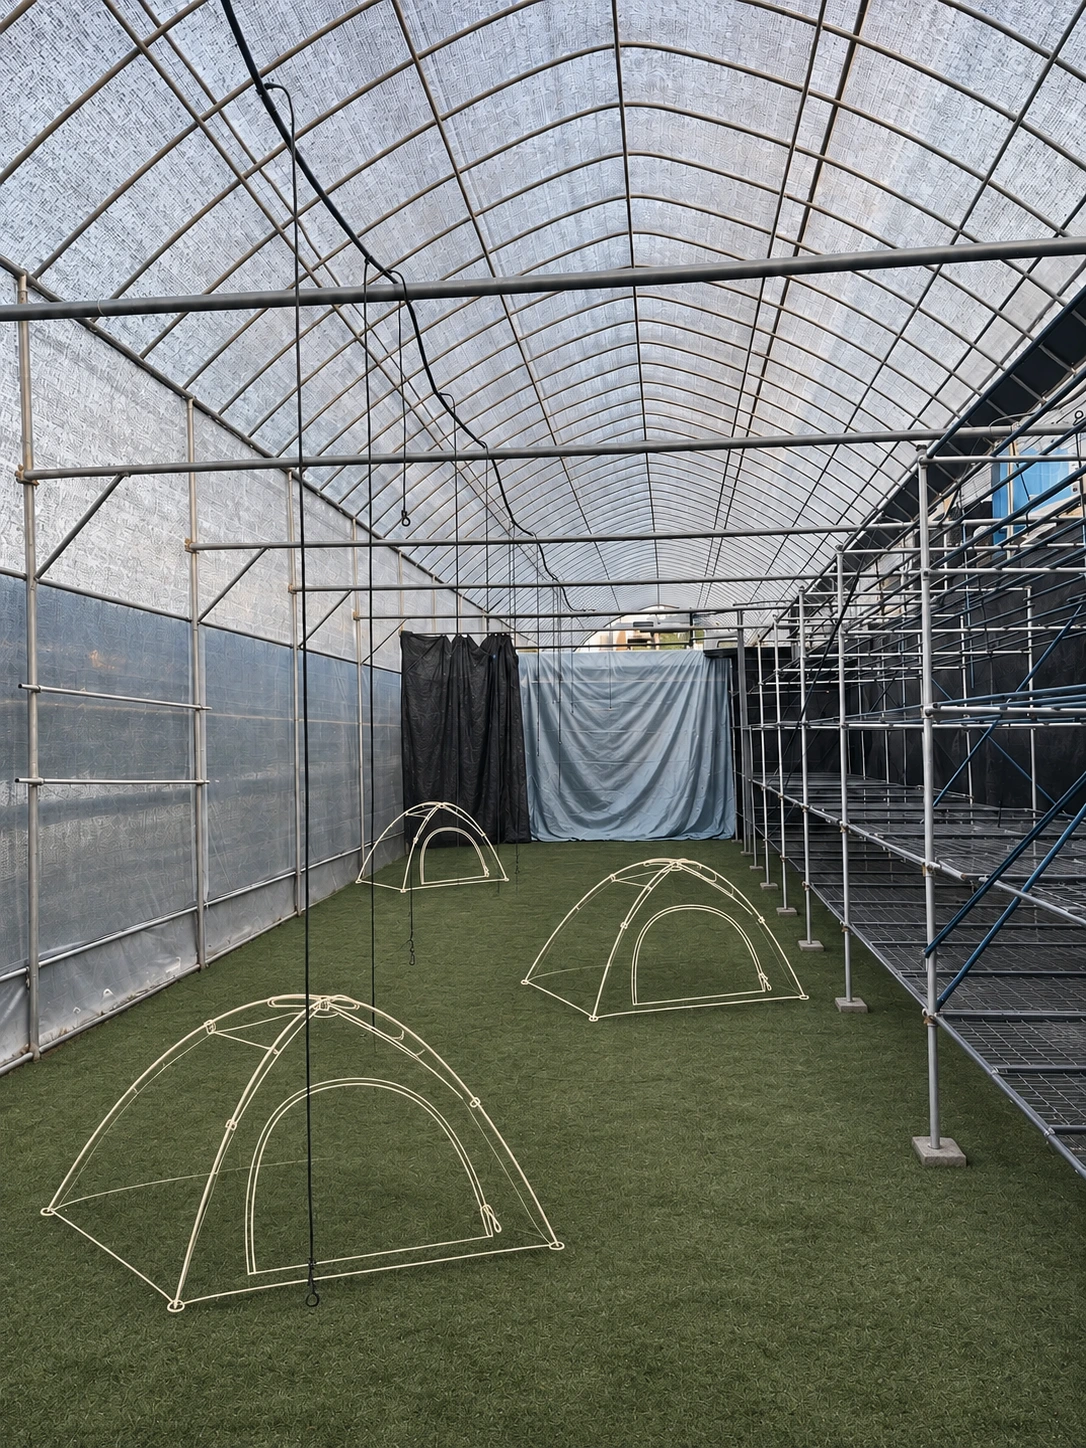
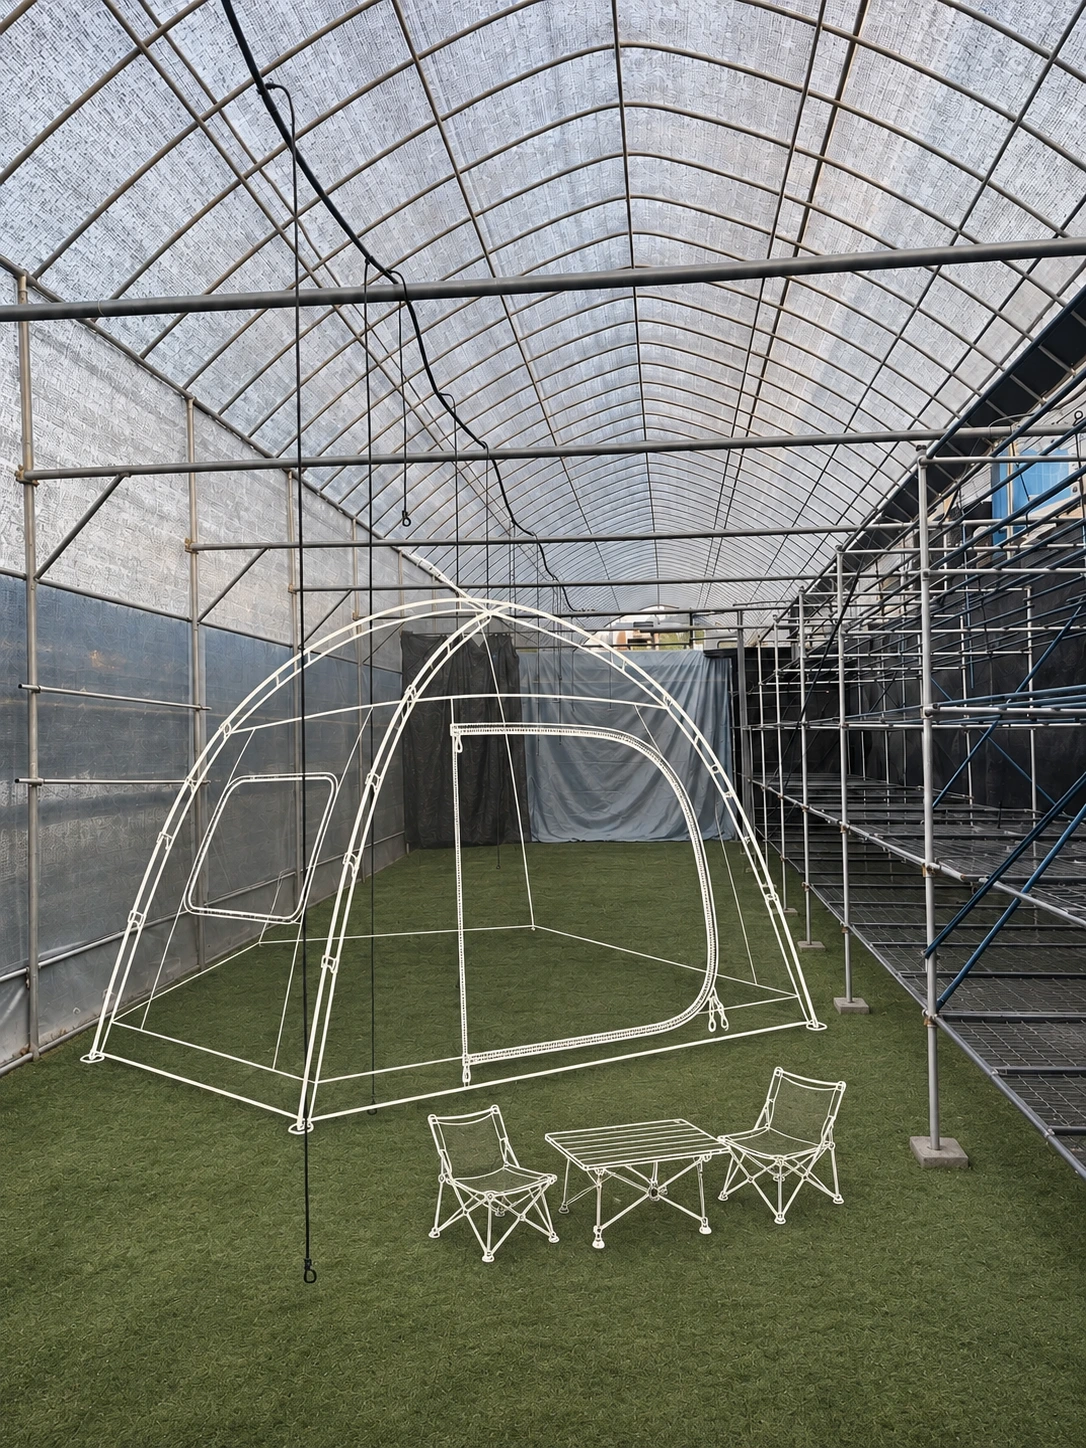
Set up one family tent with camp chairs and align lounge tables horizontally

diff --git a/index.html b/index.html
@@ -1,3 +1,3 @@
-<!doctype html><html lang="ko"><head><meta charset="utf-8"><meta name="viewport" content="width=device-width,initial-scale=1,viewport-fit=cover"><meta name="theme-color" content="#e9e2d6"><title>iHKG · 길드하우스</title><link rel="stylesheet" href="style.css"><link rel="stylesheet" href="camp-map.css?v=20261127-canvas"><link rel="stylesheet" href="shop.css?v=20261117-shop2"><link rel="stylesheet" href="signup.css?v=20261125-3"><link rel="stylesheet" href="event-layout.css?v=calendar1"></head><body><div id="app"><header><button id="mode" aria-label="지도와 목록 전환">☷</button><strong id="title">길드하우스 · Center Camp</strong><button id="filter" aria-label="필터">☷</button></header><main id="main"></main><div id="floating"><button id="fav" aria-label="즐겨찾기만 보기">♡</button></div><footer><nav aria-label="메인 메뉴"><button data-tab="map" aria-label="Map"><svg viewBox="0 0 24 24" aria-hidden="true"><path d="M3 5l6-2 6 2 6-2v16l-6 2-6-2-6 2ZM9 3v16M15 5v16"/></svg><small>Map</small></button><button data-tab="events" aria-label="Events"><svg viewBox="0 0 24 24" aria-hidden="true"><rect x="3" y="5" width="18" height="16" rx="2"/><path d="M7 3v4m10-4v4M3 10h18m-13 4h2m3 0h2m-7 3h2"/></svg><small>Events</small></button><button data-tab="shop" aria-label="Shop"><svg viewBox="0 0 24 24" aria-hidden="true"><path d="M5 8h14l2 13H3ZM8 9V6a4 4 0 0 1 8 0v3"/></svg><small>Shop</small></button><button data-tab="more" aria-label="More">•••<small>More</small></button></nav></footer></div><dialog id="detail"><div id="detailbody"></div></dialog><script src="site-places.js"></script><script src="shop.js?v=20261126-led1"></script><script src="camp-map.js?v=20261127-party"></script><script src="events-data.js?v=names7"></script><script src="signup-config.js?v=20261125-1"></script><script src="signup.js?v=20261125-confirm6"></script><script src="app.js?v=events-byline2"></script></body></html>
+<!doctype html><html lang="ko"><head><meta charset="utf-8"><meta name="viewport" content="width=device-width,initial-scale=1,viewport-fit=cover"><meta name="theme-color" content="#e9e2d6"><title>iHKG · 길드하우스</title><link rel="stylesheet" href="style.css"><link rel="stylesheet" href="camp-map.css?v=20261127-canvas"><link rel="stylesheet" href="shop.css?v=20261117-shop2"><link rel="stylesheet" href="signup.css?v=20261125-3"><link rel="stylesheet" href="event-layout.css?v=calendar1"></head><body><div id="app"><header><button id="mode" aria-label="지도와 목록 전환">☷</button><strong id="title">길드하우스 · Center Camp</strong><button id="filter" aria-label="필터">☷</button></header><main id="main"></main><div id="floating"><button id="fav" aria-label="즐겨찾기만 보기">♡</button></div><footer><nav aria-label="메인 메뉴"><button data-tab="map" aria-label="Map"><svg viewBox="0 0 24 24" aria-hidden="true"><path d="M3 5l6-2 6 2 6-2v16l-6 2-6-2-6 2ZM9 3v16M15 5v16"/></svg><small>Map</small></button><button data-tab="events" aria-label="Events"><svg viewBox="0 0 24 24" aria-hidden="true"><rect x="3" y="5" width="18" height="16" rx="2"/><path d="M7 3v4m10-4v4M3 10h18m-13 4h2m3 0h2m-7 3h2"/></svg><small>Events</small></button><button data-tab="shop" aria-label="Shop"><svg viewBox="0 0 24 24" aria-hidden="true"><path d="M5 8h14l2 13H3ZM8 9V6a4 4 0 0 1 8 0v3"/></svg><small>Shop</small></button><button data-tab="more" aria-label="More">•••<small>More</small></button></nav></footer></div><dialog id="detail"><div id="detailbody"></div></dialog><script src="site-places.js"></script><script src="shop.js?v=20261126-led1"></script><script src="camp-map.js?v=20261127-family"></script><script src="events-data.js?v=names7"></script><script src="signup-config.js?v=20261125-1"></script><script src="signup.js?v=20261125-confirm6"></script><script src="app.js?v=events-byline2"></script></body></html>
 
 

diff --git a/camp-map.js b/camp-map.js
@@ -125,8 +125,8 @@ window.GuildMap = (() => {
     {id:'wc2',title:'화장실 2',shape:'M204 48H261V141H204Z',x:232,y:100,files:[]},
     ...[3,2,1].map((n,i)=>({id:'sleep'+n,title:'침실 컨테이너 '+n,label:'침실 '+n,
       shape:`M${321+i*72} 48h72v93h-72Z`,x:357+i*72,y:100,files:[]})),
-    {id:'lounge',title:'라운지',shape:'M89 183H189V242H261V357H89Z',x:157,y:284,icon:'music',files:['lounge-plan.webp?v=2'],preview:true},
-    {id:'indoor',title:'캠핑 존',shape:'M537 48H603V357H261V242H189V183H537Z',x:414,y:272,icon:'tent',files:['camping-plan.webp?v=2'],preview:true}
+    {id:'lounge',title:'라운지',shape:'M89 183H189V242H261V357H89Z',x:157,y:284,icon:'music',files:['lounge-plan.webp?v=3'],preview:true},
+    {id:'indoor',title:'캠핑 존',shape:'M537 48H603V357H261V242H189V183H537Z',x:414,y:272,icon:'tent',files:['camping-plan.webp?v=3'],preview:true}
   ];
   function insideIcon(id){
     const icons={
